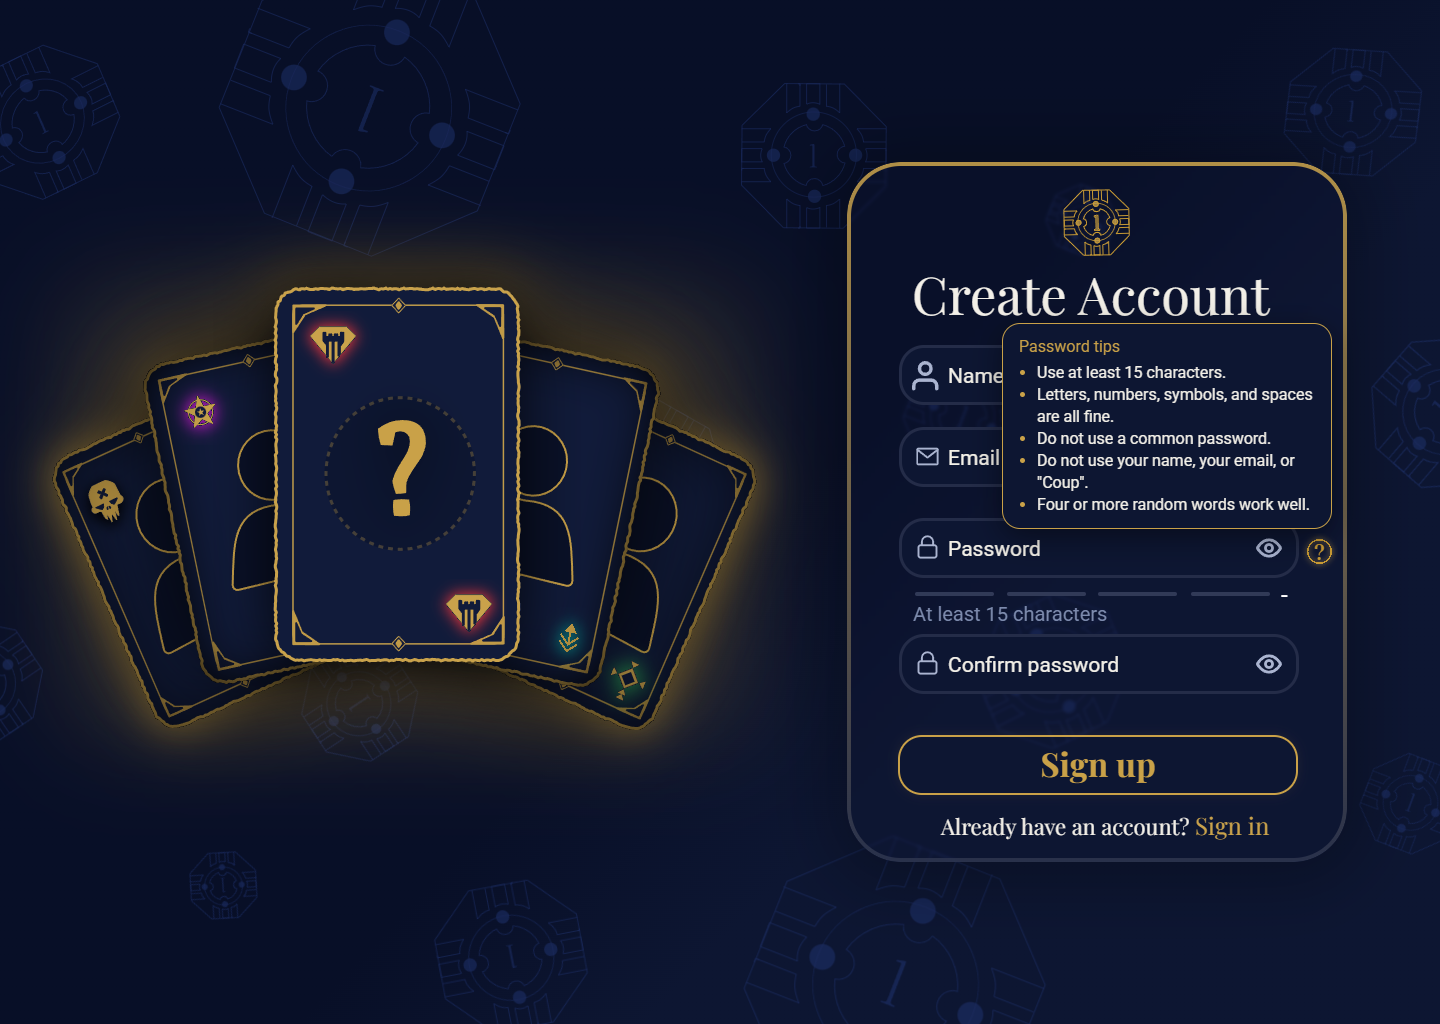
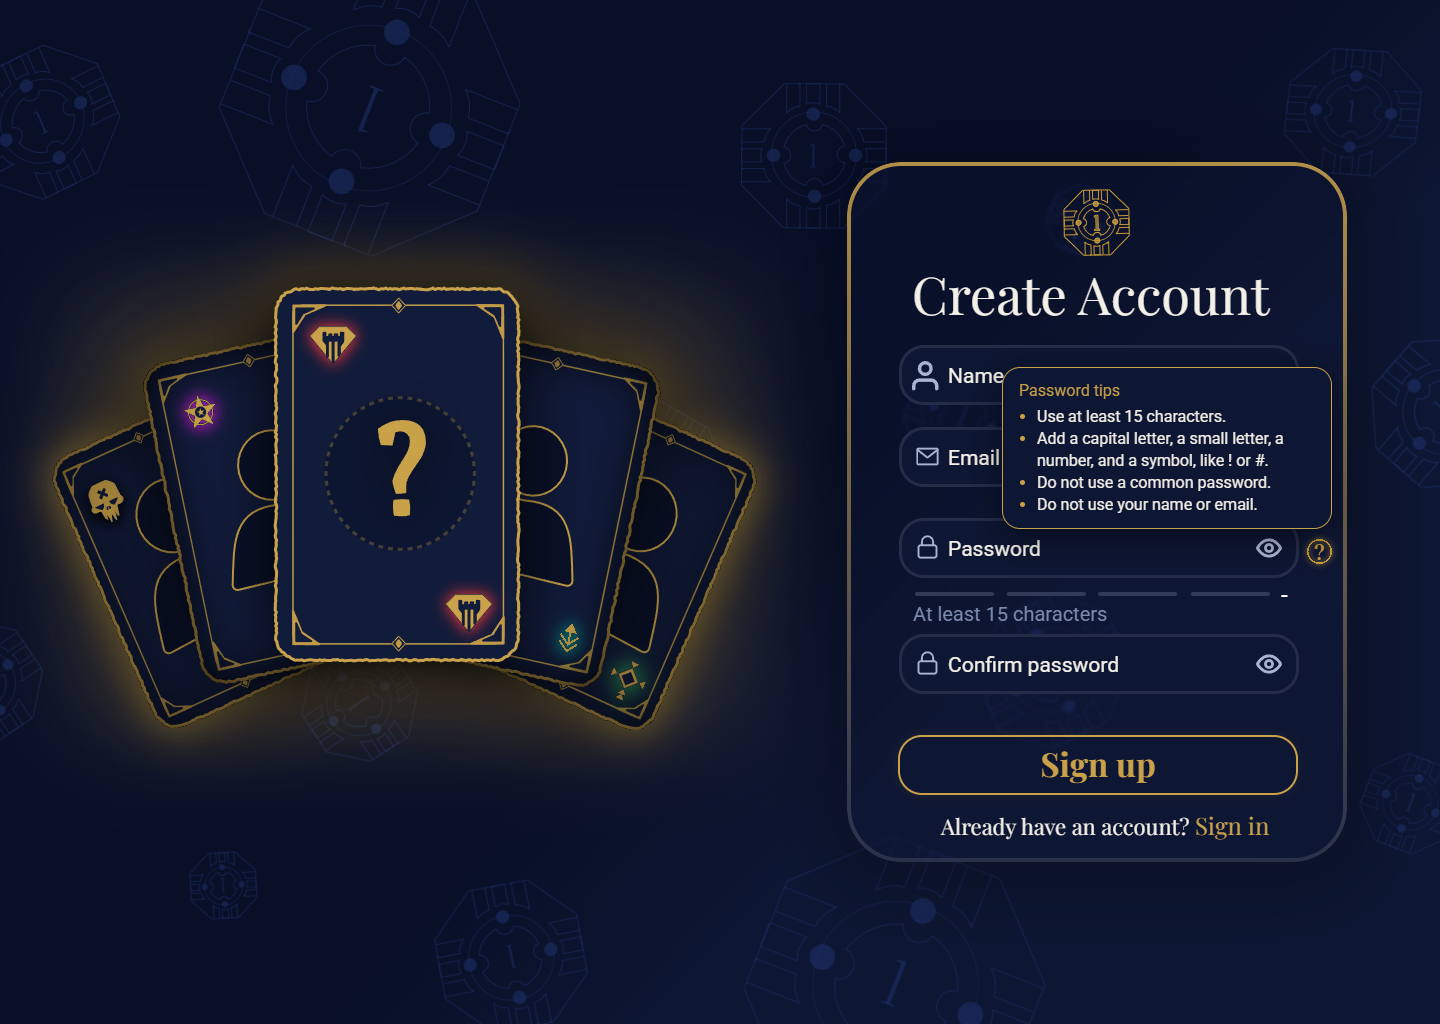
Update the register tips and tests for the new password rules
The tips now ask for the four character types and no longer mention
"Coup" or random words. The tests use passwords that meet the new rules,
and the tips and strength previews are captured again.

Changed region(s): [[0.6875, 0.3125, 0.9062, 0.5]]

diff --git a/frontend/tests/RegisterPage.test.tsx b/frontend/tests/RegisterPage.test.tsx
@@ -25,9 +25,9 @@ describe("register screen", () => {
 
   it.each([
     ["short pass", "Weak"],
-    ["football20262026", "Fair"],
-    ["sunshine summer1", "Good"],
-    ["correct horse battery staple", "Strong"],
+    ["Summer2026!2026!", "Fair"],
+    ["Football20262026!", "Good"],
+    ["Violet piano 47!", "Strong"],
   ])("rates %s as %s while typing", async (password, level) => {
     render(<RegisterPage />);
     type("Password", password);
@@ -50,13 +50,13 @@ describe("register screen", () => {
     render(<RegisterPage />);
     type("Name", "Card Shark");
     type("Email address", "card@example");
-    type("Password", "welcome to coup!");
-    type("Confirm password", "welcome to coup");
+    type("Password", "violet piano 47!");
+    type("Confirm password", "violet piano 47");
     submit();
     await waitFor(() => expect(alerts()).toEqual([
       "Do not use spaces in your name.",
       "Enter a valid email address.",
-      'Remove your name, email, or "Coup".',
+      "Add a capital letter (A–Z).",
       "Passwords don't match.",
     ]));
     expect(screen.queryByText("At least 15 characters")).toBeNull();
@@ -70,15 +70,15 @@ describe("register screen", () => {
     render(<RegisterPage />);
     type("Name", "Card_Shark");
     type("Email address", "card@example.com");
-    type("Password", "correct horse battery staple");
-    type("Confirm password", "correct horse battery staple");
+    type("Password", "Violet piano 47!");
+    type("Confirm password", "Violet piano 47!");
     submit();
     await waitFor(() => expect(strength()).toBe("Password strength: Strong"));
     await new Promise(resolve => setTimeout(resolve, 0));
     expect(alerts()).toEqual([]);
     expect(fetch).not.toHaveBeenCalled();
     expect(field("Name").value).toBe("Card_Shark");
-    expect(field("Confirm password").value).toBe("correct horse battery staple");
+    expect(field("Confirm password").value).toBe("Violet piano 47!");
   });
 
   it("clears only the edited field's warning", async () => {
@@ -102,7 +102,10 @@ describe("register screen", () => {
     render(<RegisterPage />);
     const help = screen.getByRole("button", { name: "Password tips" });
     expect(help.getAttribute("aria-describedby")).toBe("password-tips");
-    expect(screen.getByRole("tooltip", { hidden: true }).textContent).toContain("Use at least 15 characters.");
+    const tips = screen.getByRole("tooltip", { hidden: true }).textContent;
+    expect(tips).toContain("Use at least 15 characters.");
+    expect(tips).toContain("Add a capital letter, a small letter, a number, and a symbol");
+    expect(tips).not.toContain("Coup");
   });
 
   it("keeps the tips open while hovered and closes them with Escape", () => {

diff --git a/frontend/src/components/PasswordHelp.tsx b/frontend/src/components/PasswordHelp.tsx
@@ -42,10 +42,9 @@ export function PasswordHelp({ minLength }: { minLength: number }) {
         <strong>Password tips</strong>
         <ul>
           <li>Use at least {minLength} characters.</li>
-          <li>Letters, numbers, symbols, and spaces are all fine.</li>
+          <li>Add a capital letter, a small letter, a number, and a symbol, like ! or #.</li>
           <li>Do not use a common password.</li>
-          <li>Do not use your name, your email, or "Coup".</li>
-          <li>Four or more random words work well.</li>
+          <li>Do not use your name or email.</li>
         </ul>
       </div>
     </div>

diff --git a/docs/register-design.md b/docs/register-design.md
@@ -24,7 +24,7 @@ Shared looks live in `frontend/src/styles/auth.css`; register positions live in 
 - **Four strength levels.** Figma shows Weak (1 red bar), Fair (2 yellow bars), and Strong (4 green bars). The screen adds Good (3 bars) in the old green and shows Strong (4 bars) in light purple #B388FF, the "legendary" color. The password border takes the level color while the player types.
 - **Yellow warnings with login spacing.** Figma uses red messages that sit in the gaps. The screen uses the login's yellow warning style instead, and each warning pushes the fields below it down by 32 px, so the two screens behave the same. A password warning sits 8 px below the strength bars, in place of the hint, and a warned password field gets the yellow border like the other fields.
 - **Login coins and cards.** The new Figma frame has a different coin background. The user asked to reuse the login's coins and cards.
-- **Password tips.** Figma has the "?" icon but no tips box. Hovering or focusing it shows short tips in a small gold-bordered box. The box stays open while the pointer is on the button or the box, and Escape closes it.
+- **Password tips.** Figma has the "?" icon but no tips box. Hovering or focusing it shows short tips in a small gold-bordered box: the length, the four character types (capital, small letter, number, symbol), and no common or personal password. The box stays open while the pointer is on the button or the box, and Escape closes it.
 - **Small consistency fixes.** The Name hint gets a space ("Name. Visible to other players."), input text is centered like the login, and the Sign up button uses the login's button style, including the Figma pressed state.
 
 ## Behavior
@@ -36,7 +36,7 @@ Shared looks live in `frontend/src/styles/auth.css`; register positions live in 
 | --- | --- |
 | Name | The [name rules](../integration/contracts/name-policy.md), for example "Do not use spaces in your name." |
 | Email | "Enter your email address." or "Enter a valid email address." |
-| Password | "Enter a password." or a password rule, for example "This password is too common." |
+| Password | "Enter a password." or a password rule, for example "Add a symbol, like ! or #." or "This password is too common." |
 | Confirm password | "Confirm your password." or "Passwords don't match." |
 
 - Editing a field clears only its warning. Valid fields send no request and keep their values. If a field changes while the strength checker is still loading, that check result is dropped, so no old warning appears.
